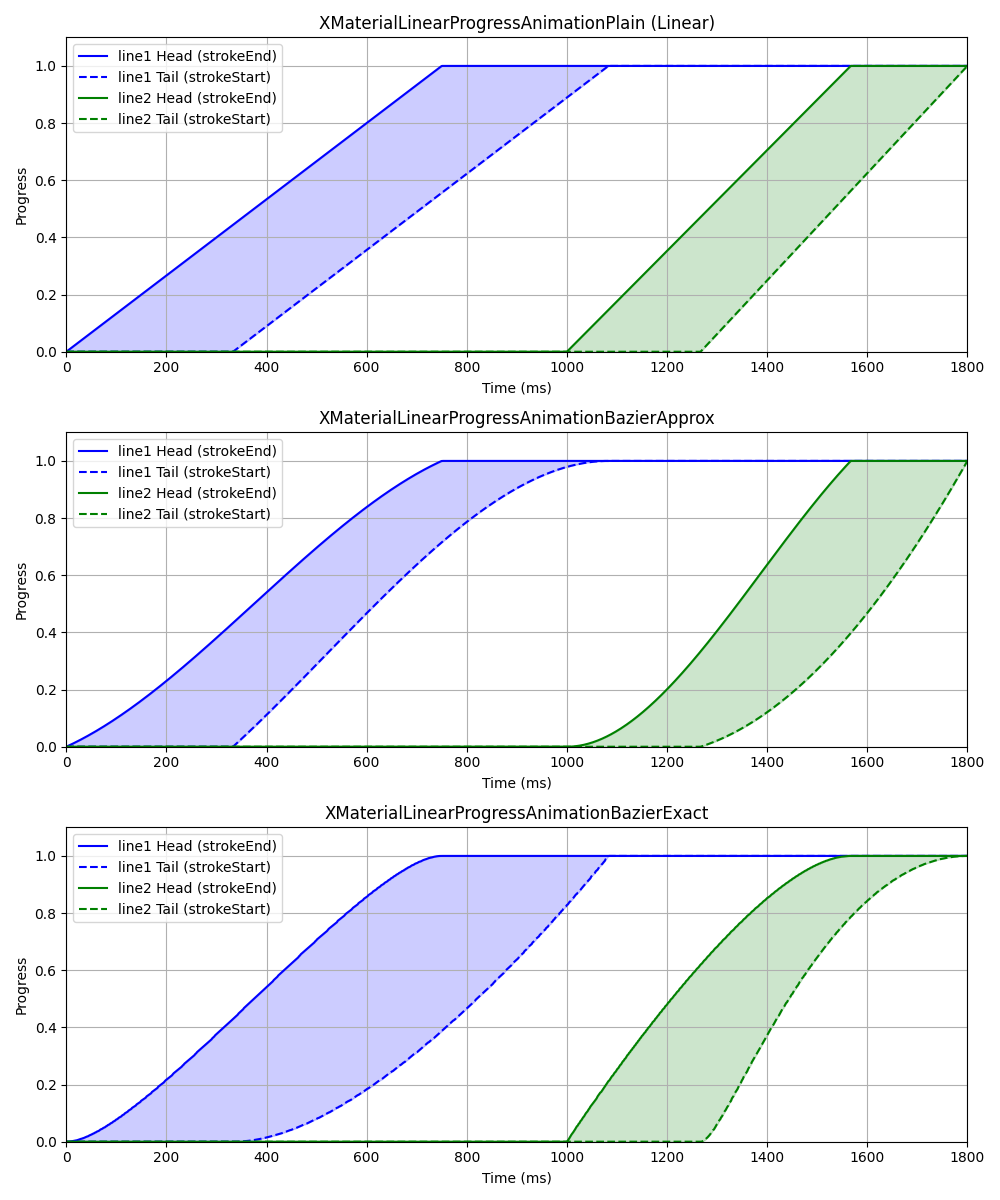
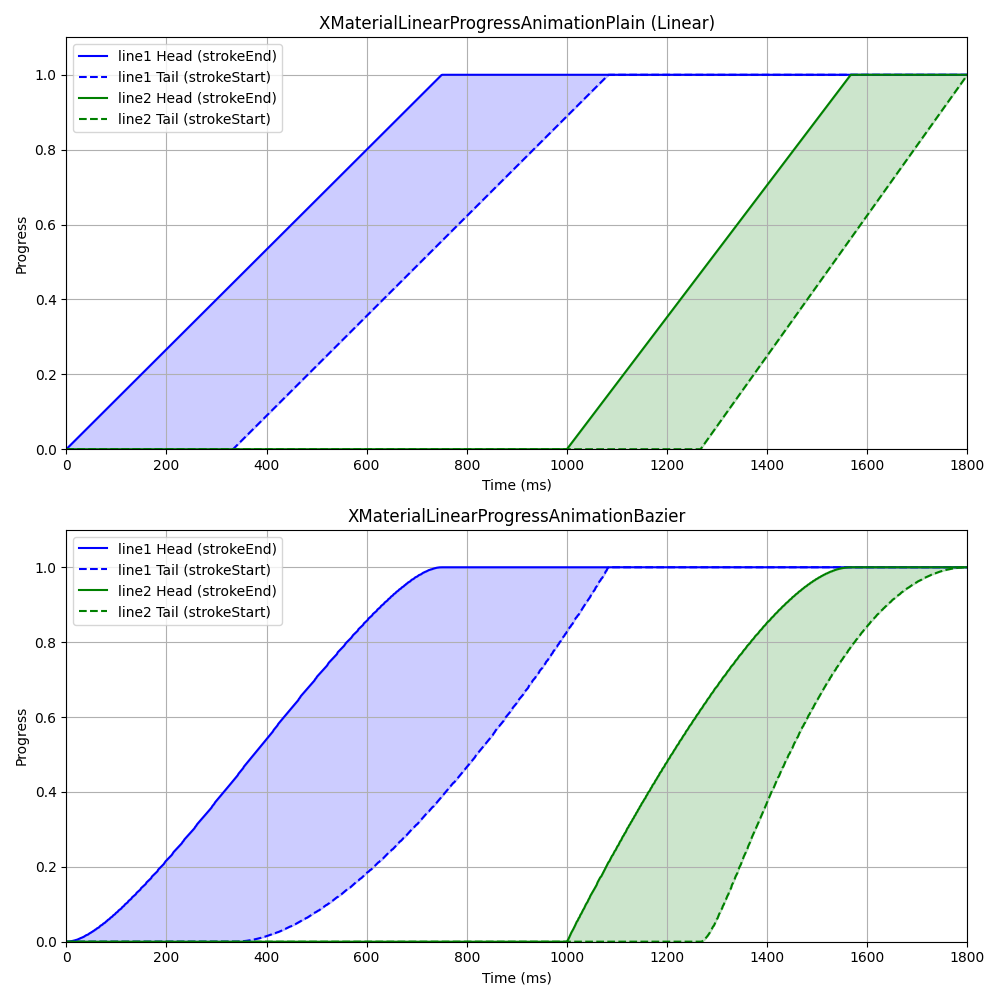
feat: only plain and bezier

diff --git a/XMaterialProgressView/Classes/XMaterialLinearProgressView.swift b/XMaterialProgressView/Classes/XMaterialLinearProgressView.swift
@@ -11,8 +11,7 @@ public class XMaterialLinearProgressView: UIView {
     
     public enum Style {
         case plain
-        case bazierApprox
-        case bazierExact
+        case bazier
     }
     
     // MARK: - Layers
@@ -69,7 +68,7 @@ public class XMaterialLinearProgressView: UIView {
         resetAnimation(oldValue: old, newValue: value, animated: animated)
     }
     
-    public var style: Style = .bazierExact {
+    public var style: Style = .bazier {
         didSet {
             resetAnimation(oldValue: nil, newValue: nil, animated: false)
         }
@@ -186,9 +185,7 @@ public class XMaterialLinearProgressView: UIView {
         switch style {
         case .plain:
             XMaterialLinearProgressAnimationPlain.addIndeterminateBarAnimation(layer1: layer1, layer2: layer2)
-        case .bazierApprox:
-            XMaterialLinearProgressAnimationBazierApprox.addIndeterminateBarAnimation(layer1: layer1, layer2: layer2)
-        case .bazierExact:
+        case .bazier:
             XMaterialLinearProgressAnimationBazierExact.addIndeterminateBarAnimation(layer1: layer1, layer2: layer2)
         }
     }
@@ -239,110 +236,6 @@ private class XMaterialLinearProgressAnimationPlain {
         let tail2 = makeKeyframe(
             [line2TailStart, line2TailEnd],
             [0.0, 1.0],
-            keyPath: "strokeStart"
-        )
-        
-        let group1 = CAAnimationGroup()
-        group1.animations = [head1, tail1]
-        group1.duration = _kIndeternunateLinearDurationSecond
-        group1.repeatCount = .infinity
-        group1.fillMode = .forwards
-        group1.isRemovedOnCompletion = false
-        layer1.add(group1, forKey: "indeterminate1")
-        let group2 = CAAnimationGroup()
-        group2.animations = [head2, tail2]
-        group2.duration = _kIndeternunateLinearDurationSecond
-        group2.repeatCount = .infinity
-        group2.fillMode = .forwards
-        group2.isRemovedOnCompletion = false
-        layer2.add(group2, forKey: "indeterminate2")
-    }
-}
-
-private class XMaterialLinearProgressAnimationBazierApprox {
-    
-    struct Cubic {
-        let a: Double
-        let b: Double
-        let c: Double
-        let d: Double
-        
-        init(_ a: Double, _ b: Double, _ c: Double, _ d: Double) {
-            self.a = a
-            self.b = b
-            self.c = c
-            self.d = d
-        }
-    }
-    
-    static func makeAnimation(_ begin: Double, _ end: Double, curve: Cubic, keyPath: String) -> CAKeyframeAnimation {
-        let anim = CAKeyframeAnimation(keyPath: keyPath)
-        var values: [CGFloat] = []
-        var keyTimes: [NSNumber] = []
-        
-        let frames = 60
-        
-        for i in 0...frames {
-            let t = Double(i) / Double(frames)
-            let transformed = transformInternal(t, begin, end, curve)
-            values.append(CGFloat(transformed))
-            keyTimes.append(NSNumber(value: t))
-        }
-        
-        anim.values = values
-        anim.keyTimes = keyTimes
-        anim.duration = _kIndeternunateLinearDurationSecond
-        anim.repeatCount = .infinity
-        anim.fillMode = .forwards
-        anim.isRemovedOnCompletion = false
-        
-        return anim
-    }
-    
-    static func transformInternal(_ t: Double, _ begin: Double, _ end: Double, _ curve: Cubic) -> Double {
-        if t <= begin { return 0 }
-        if t >= end { return 1 }
-        let progress = (t - begin) / (end - begin)
-        return cubicBezier(progress, curve)
-    }
-    
-    // 线性近似
-    static func cubicBezier(_ t: Double, _ c: Cubic) -> Double {
-        let u = 1 - t
-        let tt = t * t
-        let uu = u * u
-        let uuu = uu * u
-        let ttt = tt * t
-        let p0 = 0.0
-        let p1 = Double(c.a)
-        let p2 = Double(c.c)
-        let p3 = 1.0
-        return uuu * p0 + 3 * uu * t * p1 + 3 * u * tt * p2 + ttt * p3
-    }
-    
-    static func addIndeterminateBarAnimation(layer1: CAShapeLayer, layer2: CAShapeLayer) {
-        let head1 = makeAnimation(
-            0.0,
-            750.0 / _kIndeterminateLinearDuration,
-            curve: Cubic(0.2, 0.0, 0.8, 1.0),
-            keyPath: "strokeEnd"
-        )
-        let tail1 = makeAnimation(
-            333.0 / _kIndeterminateLinearDuration,
-            (333.0 + 750.0) / _kIndeterminateLinearDuration,
-            curve: Cubic(0.4, 0.0, 1.0, 1.0),
-            keyPath: "strokeStart"
-        )
-        let head2 = makeAnimation(
-            1000.0 / _kIndeterminateLinearDuration,
-            (1000.0 + 567.0) / _kIndeterminateLinearDuration,
-            curve: Cubic(0.0, 0.0, 0.65, 1.0),
-            keyPath: "strokeEnd"
-        )
-        let tail2 = makeAnimation(
-            1267.0 / _kIndeterminateLinearDuration,
-            (1267.0 + 533.0) / _kIndeterminateLinearDuration,
-            curve: Cubic(0.10, 0.0, 0.45, 1.0),
             keyPath: "strokeStart"
         )
         

diff --git a/Example/XMaterialProgressView/ViewController.swift b/Example/XMaterialProgressView/ViewController.swift
@@ -24,13 +24,7 @@ class ViewController: UIViewController {
     
     private lazy var lineProgressView_v2: XMaterialLinearProgressView = {
         let view = XMaterialLinearProgressView()
-        view.style = .bazierApprox
-        return view
-    }()
-    
-    private lazy var lineProgressView_v3: XMaterialLinearProgressView = {
-        let view = XMaterialLinearProgressView()
-        view.style = .bazierExact
+        view.style = .bazier
         return view
     }()
     
@@ -47,7 +41,6 @@ class ViewController: UIViewController {
         view.addSubview(circleProgressView)
         view.addSubview(lineProgressView_v1)
         view.addSubview(lineProgressView_v2)
-        view.addSubview(lineProgressView_v3)
         
         let top: CGFloat = 64 + 16
         let screenWidth = UIScreen.main.bounds.width
@@ -56,7 +49,6 @@ class ViewController: UIViewController {
         
         lineProgressView_v1.frame = CGRect(x: 16, y: top + 100 + 20 + 00, width: screenWidth - 32, height: 44)
         lineProgressView_v2.frame = CGRect(x: 16, y: top + 100 + 20 + 44, width: screenWidth - 32, height: 44)
-        lineProgressView_v3.frame = CGRect(x: 16, y: top + 100 + 20 + 88, width: screenWidth - 32, height: 44)
         
         setValue(nil, animated: true)
     }
@@ -122,7 +114,6 @@ class ViewController: UIViewController {
         circleProgressView.setValue(value, animated: animated)
         lineProgressView_v1.setValue(value, animated: animated)
         lineProgressView_v2.setValue(value, animated: animated)
-        lineProgressView_v3.setValue(value, animated: animated)
     }
     
 }
